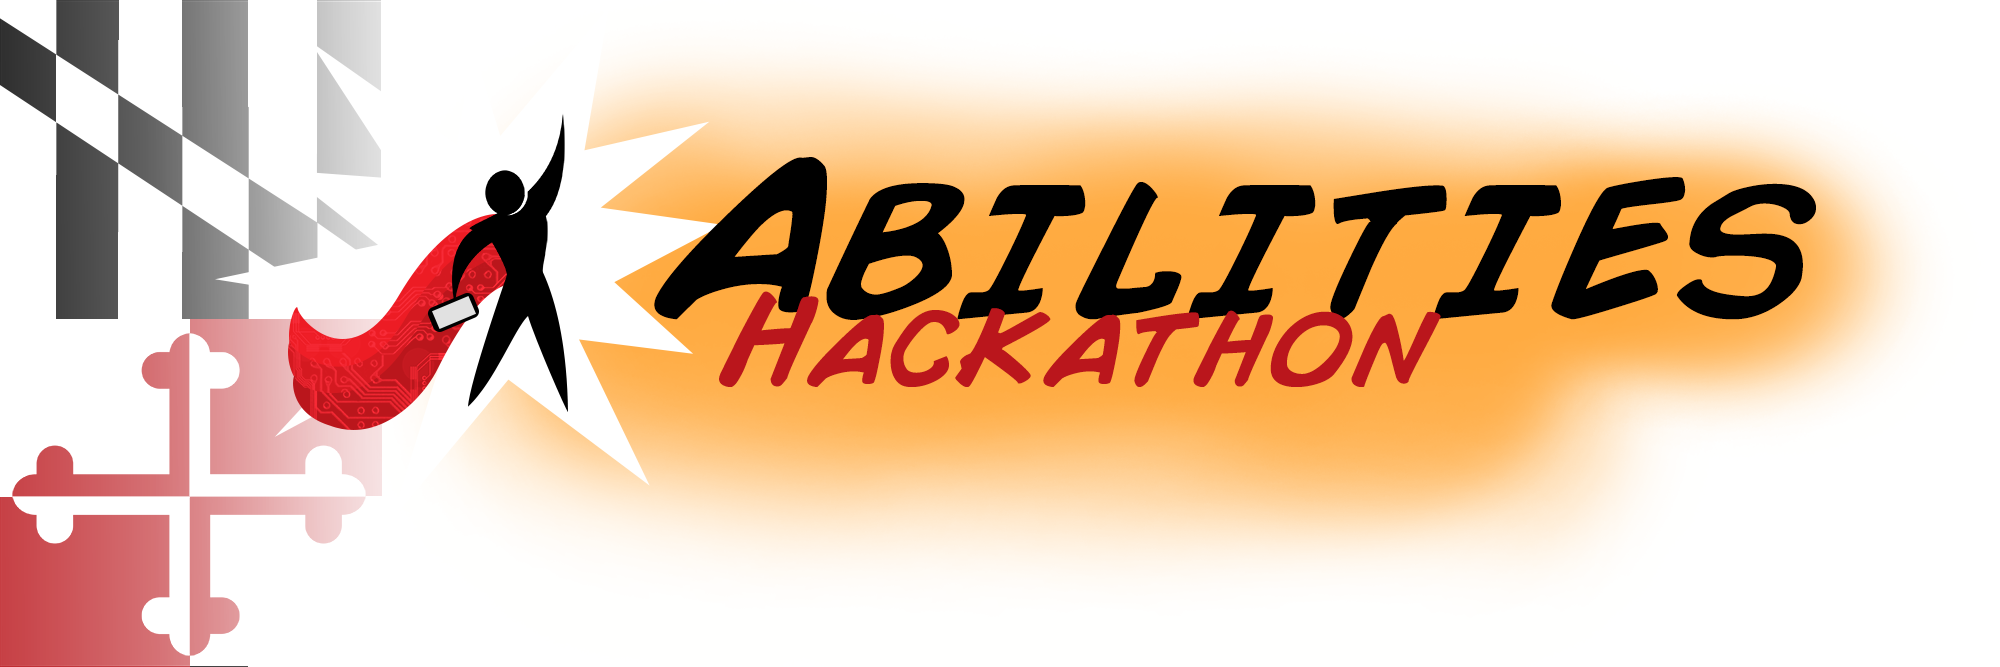
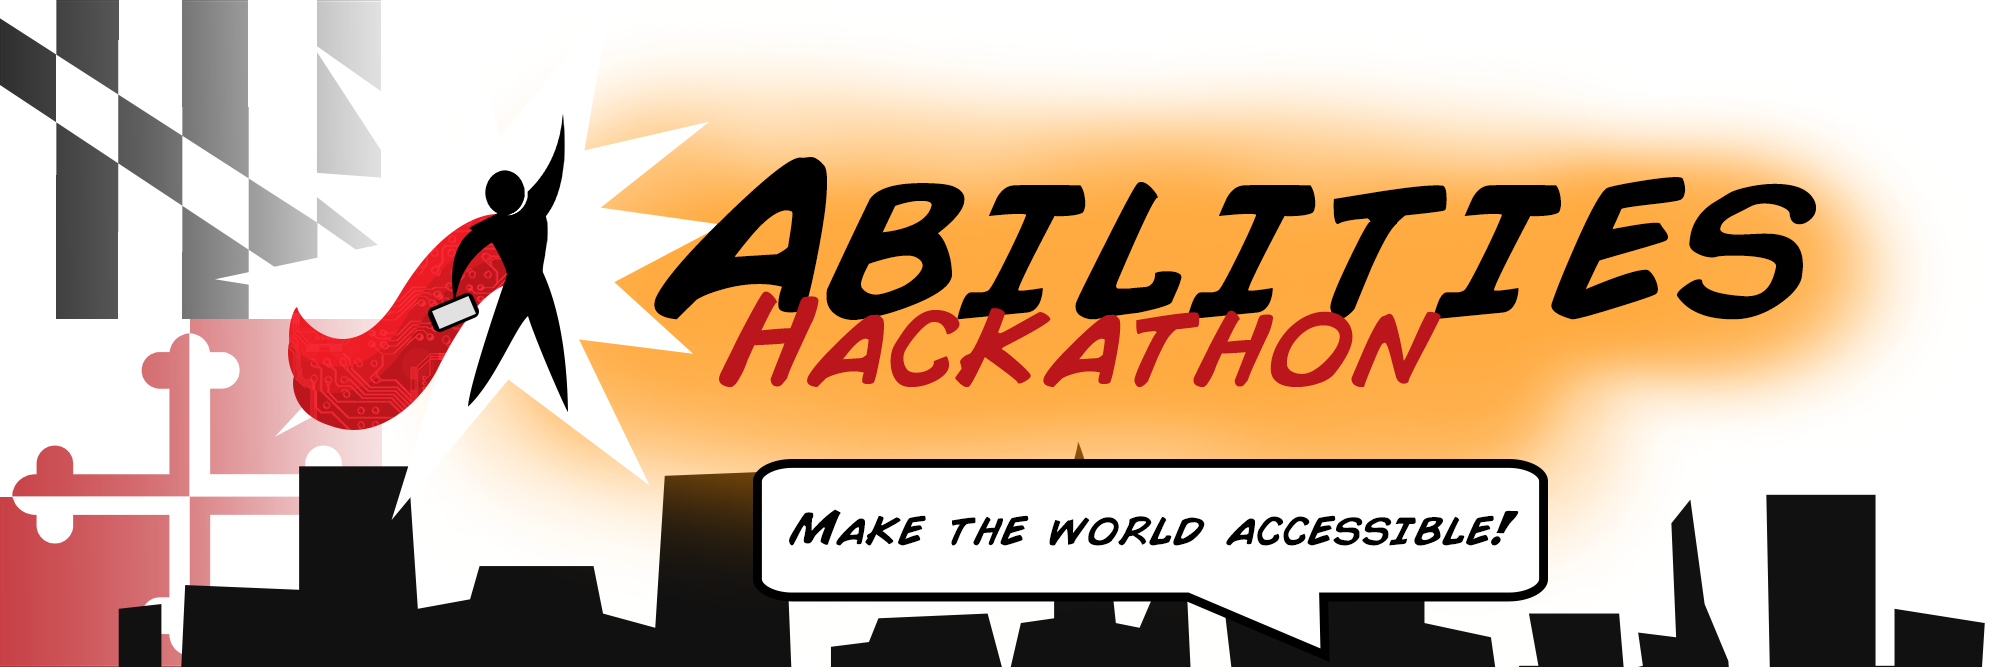
Layout Update 4 - configure layout sizing for responsiveness across differently sized devices
Content Update 4
- add social media buttons and links for newly created social pages
- update header to include jagged Baltimore skyline

Changed region(s): [[0.062, 0.6597, 0.992, 1.0]]

diff --git a/_includes/why.html b/_includes/why.html
@@ -4,13 +4,14 @@
             Developers Assemble!
         </h1>
         <div class="row">
-            <div class="ui center aligned two statistics column inverted black segment">
+            <div class="ui center aligned two statistics five wide computer six wide tablet column inverted black segment">
+                <br>
                 <div class="ui inverted blue statistic">
                     <div class="value">
-                        Friday + Saturday
+                        April 22 - 24, 2016
                     </div>
                     <div class="label">
-                        April 22 - 24, 2016
+                        Friday, Saturday, Sunday
                     </div>
                 </div>
                 <div class="ui inverted green statistic">
@@ -22,8 +23,14 @@
                         in cash prizes
                     </div>
                 </div>
+                <div class="ui massive animated fade inverted yellow button">
+                    <div class="visible content">Register on EventBrite!</div>
+                    <div class="hidden content">
+                        Become a Hero!
+                    </div>
+                </div>
             </div>
-            <div class="ui black center aligned massive message column">
+            <div class="ui black center aligned massive message six wide computer column">
                 <i class="blue circular large anchor icon"></i>
                 <div class="content">
                     <div class="ui inverted header">
@@ -35,7 +42,9 @@
                     a collaborative effort to engage the tech community in human-centered design
                     practices for individuals with needs related to their impacted abilities.
                 </div>
+                <br>
             </div>
+            <br>
         </div>
     </div>
 </div>

diff --git a/_includes/header.html b/_includes/header.html
@@ -1,6 +1,17 @@
 <div id="header" class="ui yellow row">
     <div class="ui one column grid">
         <img src="/assets/images/abilities_header.png">
+        <!--<svg version="1.1" xmlns="http://www.w3.org/2000/svg" width="350" height="200">
+            <path id="word" style="stroke-linecap: round; stroke-linejoin: round; stroke-dasharray: 1009.23px; stroke-dashoffset: 1009.23px;" fill="none" stroke="#000000" stroke-width="5" d="M22.328,70.018c9.867-7.4,10.724,20.434,13.014,28.694c-0.08-9.105-1.308-31.463,11.936-31.886
+			c11.313-0.361,17.046,19.368,16.367,28.098c-1.432-10.289,6.234-30.682,18.163-25.671c11.505,4.833,8.682,26.772,20.071,31.964
+			c13.06,5.953,14.854-8.305,19.734-17.017c7.188-12.836,4.933-15.417,29.6-14.8c-8.954-3.842-37.42,1.728-28.539,20.1
+			c5.823,12.045,34.911,12.583,30.018-8.873c-5.385,17.174,24.01,23.104,24.01,9.123c0-9.867,3.816-15.937,16.034-18.5
+			c8.359-1.754,18.982,4.754,25.9,9.25c-10.361-4.461-51.941-13.776-37.749,12.357c9.435,17.372,50.559,2.289,33.477-6.063
+			c-2.871,19.008,32.415,31.684,30.695,54.439c-2.602,34.423-66.934,24.873-79.302,2.134c-13.11-24.101,38.981-36.781,54.798-40.941
+			c8.308-2.185,42.133-12.162,25.88-25.587c-2.779,17.058,19.275,28.688,29.963,12.911c6.862-10.131,6.783-25.284,30.833-19.117
+			c-9.404-0.429-32.624-0.188-32.864,18.472c-0.231,17.912,21.001,21.405,40.882,11.951"></path>
+            <path id="dot" style="stroke-linecap: round; stroke-linejoin: round; stroke-dasharray: 44.2974px; stroke-dashoffset: 44.2974px;" fill="none" stroke="#000000" stroke-width="5" d="M247.003,38.567c-7.423,1.437-11.092,9.883-1.737,11.142c14.692,1.978,13.864-13.66,1.12-8.675"></path>
+        </svg>-->
     </div>
 </div>
 <div class="dots"></div>

diff --git a/js/scroll-magic.js b/js/scroll-magic.js
@@ -25,4 +25,31 @@ $(document).ready(function () {
         .setTween("#who > div", {y: "80%", ease: Linear.easeNone})
         //.addIndicators()
         .addTo(controller);
+    /*function pathPrepare ($el) {
+        var lineLength = $el[0].getTotalLength();
+        $el.css("stroke-dasharray", lineLength);
+        $el.css("stroke-dashoffset", lineLength);
+    }
+
+    var $word = $("path#word");
+    var $dot = $("path#dot");
+
+    // prepare SVG
+    pathPrepare($word);
+    pathPrepare($dot);
+
+    // init controller
+    var controller = new ScrollMagic.Controller();
+
+    // build tween
+    var tween = new TimelineMax()
+        .add(TweenMax.to($word, 0.9, {strokeDashoffset: 0, ease:Linear.easeNone})) // draw word for 0.9
+        .add(TweenMax.to($dot, 0.1, {strokeDashoffset: 0, ease:Linear.easeNone}))  // draw dot for 0.1
+        .add(TweenMax.to("path", 1, {stroke: "#33629c", ease:Linear.easeNone}), 0);			// change color during the whole thing
+
+    // build scene
+    var scene = new ScrollMagic.Scene({triggerElement: "#trigger1", duration: 200, tweenChanges: true})
+        .setTween(tween)
+        .addIndicators() // add indicators (requires plugin)
+        .addTo(controller);*/
 });

diff --git a/_includes/who.html b/_includes/who.html
@@ -1,4 +1,20 @@
-<div id="who" class="ui green row">
-    <div class="ui basic fluid label segment">
+<div id="who" class="ui row">
+    <div class="ui huge inverted black three item secondary stackable menu">
+        <a class="eventbrite item">
+            <div class="ui massive animated fade inverted yellow button">
+                <div class="visible content">Register on EventBrite!</div>
+                <div class="hidden content">
+                    Become a Hero!
+                </div>
+            </div>
+        </a>
+        <a class="ui blue item" href="https://www.facebook.com/abilitieshackathon" target="_blank">
+            <i class="facebook icon"></i>
+            facebook
+        </a>
+        <a class="ui blue item" href="https://twitter.com/abilitieshack" target="_blank">
+            <i class="twitter icon"></i>
+            twitter
+        </a>
     </div>
 </div>

diff --git a/css/main.scss b/css/main.scss
@@ -11,7 +11,10 @@ body {
   #header, #header .grid, #header img {
     padding: 0 !important;
   }
-  #why {
+  #header img {
+    margin-bottom: -0.25em;
+  }
+  #why, #who {
     background-image: url(/assets/images/city.png);
     background-position: 0 0;
   }
@@ -21,7 +24,7 @@ body {
     left: 0;
     opacity: 0.3;
     position: absolute;
-    top: 0;
+    //top: 0;
     width: 100%;
   }
   .panel-heading {
@@ -34,7 +37,7 @@ body {
     -webkit-background-size: cover;
     background-repeat: no-repeat;
     background-size: cover;
-    height: 50%;
+    //height: 50%;
     .segment {
       -webkit-background-size: contain;
       background-repeat: no-repeat;
@@ -50,6 +53,9 @@ body {
     -webkit-box-shadow: none;
     -moz-box-shadow: none;
     box-shadow: none;
+  }
+  .ui.secondary.item.menu .item:last-child {
+    margin-right: 0.25em;
   }
 }
 

diff --git a/_includes/what.html b/_includes/what.html
@@ -1,7 +1,7 @@
 <div id="what" class="ui red row">
-    <div class="ui shadowless stackable two column celled grid">
+    <div class="ui shadowless stackable two column celled eleven wide computer thirteen wide tablet grid">
         <h1 class="panel-heading ui centered inverted massive header row">
-            Flavors of Accessibility
+            Choose Your Mission
         </h1>
         <div class="row">
             <div class="ui basic fluid inverted segment column">

diff --git a/_includes/head.html b/_includes/head.html
@@ -13,6 +13,7 @@
     <link rel="canonical" href="{{ site.url }}{{ page.url | replace:'index.html',''}}">
 
     <script src="/js/jquery-2.2.1.min.js"></script>
+    <script src="/js/buttons.js"></script>
     <script src="/js/scroll-magic.js"></script>
 
     <script src="/css/semantic-ui-css/dist/semantic.js"></script>

diff --git a/js/buttons.js b/js/buttons.js
@@ -1,0 +1,5 @@
+$(document).ready(function () {
+    $('.eventbrite').click(function () {
+        window.open('https://www.eventbrite.com/e/abilities-hackathon-tickets-22285583781', '_blank');
+    });
+});
